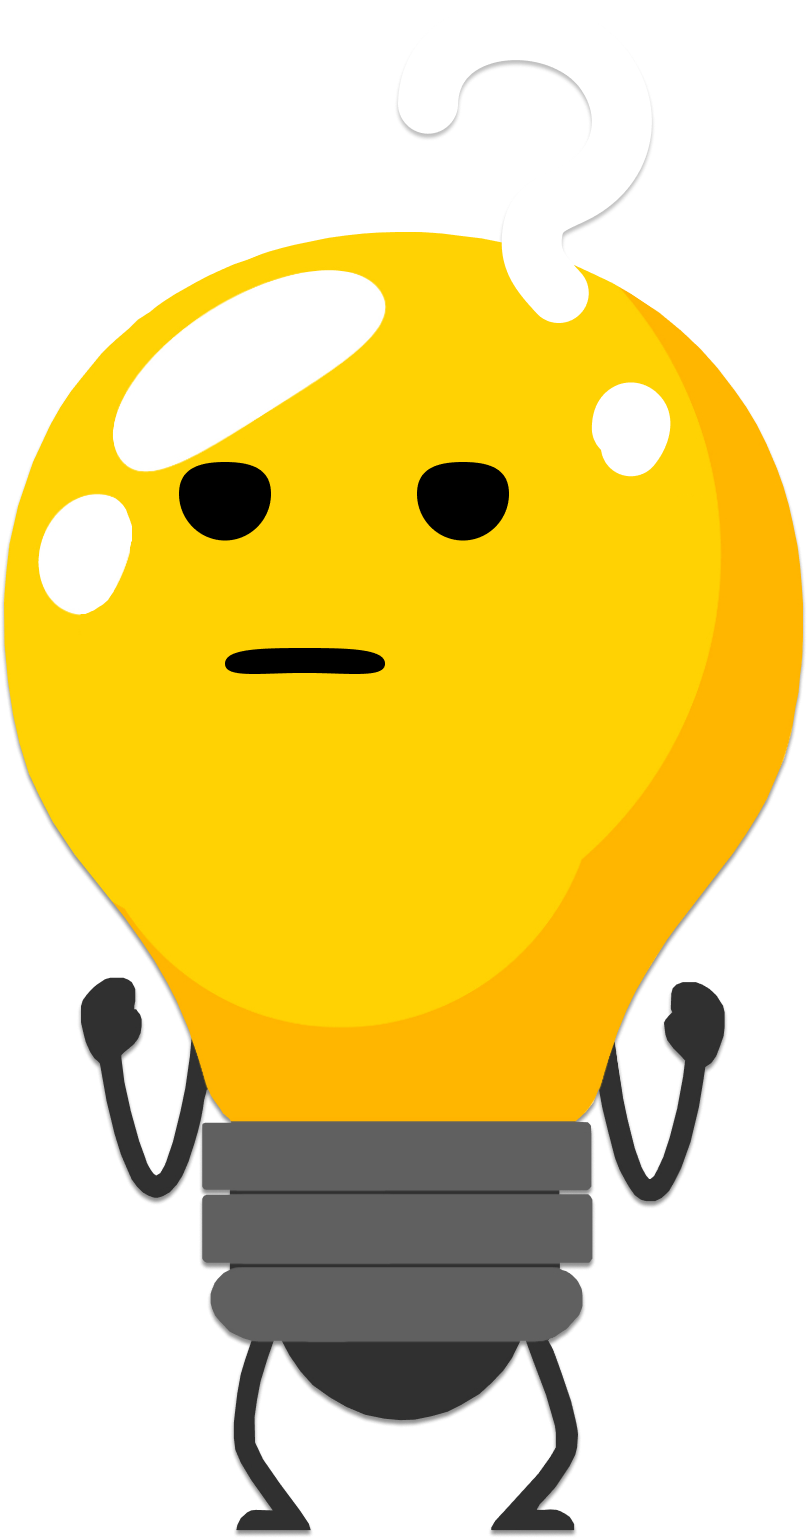
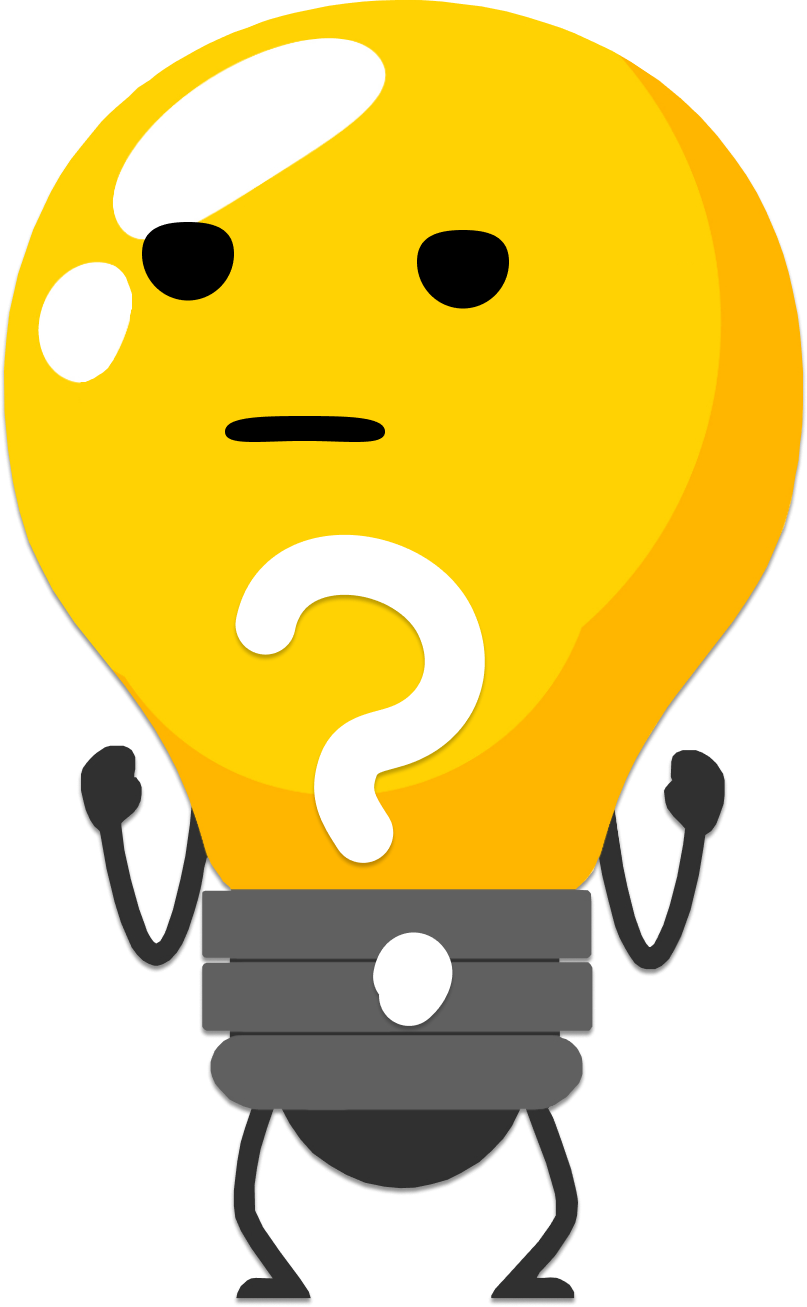
added expressions changing to all pages, revamped colours etc.

diff --git a/src/main/java/nz/ac/auckland/se206/CanvasController.java b/src/main/java/nz/ac/auckland/se206/CanvasController.java
@@ -24,8 +24,8 @@ import javafx.scene.control.Button;
 import javafx.scene.control.Label;
 import javafx.scene.control.ListView;
 import javafx.scene.image.Image;
+import javafx.scene.image.ImageView;
 import javafx.scene.layout.Pane;
-import javafx.scene.layout.VBox;
 import javafx.scene.paint.Color;
 import javafx.stage.FileChooser;
 import javafx.stage.FileChooser.ExtensionFilter;
@@ -54,7 +54,7 @@ public class CanvasController {
   @FXML private Label timeLabel;
   @FXML private ListView<?> predictionsList;
   @FXML private Button clearButton;
-  @FXML private VBox gameOverComponents;
+  @FXML private Pane gameOverComponents;
   @FXML private Label gameOverLabel;
   @FXML private Button restartButton;
   @FXML private Button backButton;
@@ -62,6 +62,8 @@ public class CanvasController {
   @FXML private Button eraseButton;
   @FXML private Button paintButton;
   @FXML private Pane canvasPane;
+  @FXML private ImageView questionMark;
+  @FXML private ImageView lightbulb;
 
   private int userId = UserHomeController.id;
   private User user = User.getUser(userId);
@@ -139,6 +141,7 @@ public class CanvasController {
     readyButton.setVisible(false);
     canvas.setDisable(false);
     canvasPane.setVisible(true);
+    questionMark.setVisible(false);
   }
 
   /**
@@ -250,7 +253,7 @@ public class CanvasController {
           protected Void call() throws Exception {
             ObservableList predictions =
                 (ObservableList)
-                    DoodlePrediction.getPredictionsList(
+                    DoodlePrediction.getBasePredictionsList(
                         model.getPredictions(thisImage, 10)); // get top 10 predictions
 
             boolean isInTop =
@@ -265,12 +268,58 @@ public class CanvasController {
                   // puts the top 10 predictions in the list
                   predictionsList.setItems(predictions);
                   if (isInTop && secondsLeft != startingTime) {
+                    File file =
+                        new File(
+                            System.getProperty("user.dir")
+                                + "/src/main/resources/images/canvas_images/excitedBulb.png");
+                    Image image = new Image(file.toURI().toString());
+                    lightbulb.setImage(image);
                     // if the chosen topic is in the top 3, then the game ends (user wins!)
                     endGame(true);
                     this.cancel();
                   } else if (secondsLeft == 0) {
                     endGame(false);
                     this.cancel();
+                  } else {
+                    try {
+                      if (DoodlePrediction.getBasePredictionsList(
+                              model.getPredictions(thisImage, 10))
+                          .contains(randomWord)) {
+                        File file =
+                            new File(
+                                System.getProperty("user.dir")
+                                    + "/src/main/resources/images/canvas_images/clueBulb.png");
+                        Image image = new Image(file.toURI().toString());
+                        lightbulb.setImage(image);
+                      } else if (DoodlePrediction.getBasePredictionsList(
+                              model.getPredictions(thisImage, 20))
+                          .contains(randomWord)) {
+                        File file =
+                            new File(
+                                System.getProperty("user.dir")
+                                    + "/src/main/resources/images/canvas_images/confusedBulb.png");
+                        Image image = new Image(file.toURI().toString());
+                        lightbulb.setImage(image);
+                      } else if (DoodlePrediction.getBasePredictionsList(
+                              model.getPredictions(thisImage, 30))
+                          .contains(randomWord)) {
+                        File file =
+                            new File(
+                                System.getProperty("user.dir")
+                                    + "/src/main/resources/images/canvas_images/sadBulb.png");
+                        Image image = new Image(file.toURI().toString());
+                        lightbulb.setImage(image);
+                      } else {
+                        File file =
+                            new File(
+                                System.getProperty("user.dir")
+                                    + "/src/main/resources/images/canvas_images/angryBulb.png");
+                        Image image = new Image(file.toURI().toString());
+                        lightbulb.setImage(image);
+                      }
+                    } catch (TranslateException e) {
+                      e.printStackTrace();
+                    }
                   }
                 });
             return null;
@@ -313,7 +362,6 @@ public class CanvasController {
     setBrushType(Color.BLACK, false);
 
     model = new DoodlePrediction();
-    displayPrediction(); // puts top 10 guesses on the listview
 
     CategorySelector categorySelector = new CategorySelector();
     randomWord = categorySelector.getRandomCategory(user.getWordDifficulty()); // sets to easy mode

diff --git a/src/main/java/nz/ac/auckland/se206/DefinitionsController.java b/src/main/java/nz/ac/auckland/se206/DefinitionsController.java
@@ -66,6 +66,7 @@ public class DefinitionsController {
   @FXML private Button paintButton;
   @FXML private Pane canvasPane;
   @FXML private ImageView questionMark;
+  @FXML private ImageView lightbulb;
 
   private int userId = UserHomeController.id;
   private User user = User.getUser(userId);
@@ -145,6 +146,7 @@ public class DefinitionsController {
     backButton.setDisable(true); // disable back
     hintLabel.setVisible(true);
     hintLabel.setDisable(false);
+    questionMark.setVisible(false);
   }
 
   /**
@@ -265,30 +267,82 @@ public class DefinitionsController {
           protected Void call() throws Exception {
             ObservableList predictions =
                 (ObservableList)
-                    DoodlePrediction.getPredictionsList(
+                    DoodlePrediction.getBasePredictionsList(
                         model.getPredictions(thisImage, 10)); // get top 10 predictions
 
             boolean isInTop =
                 DoodlePrediction.getPredictionsList(
                         model.getPredictions(thisImage, predictionWinNumber))
                     .contains(randomWord); // get top predictions based
+
             Platform.runLater(
                 () -> {
                   updateHint();
+
+                  try {
+                    if (DoodlePrediction.getPredictionsList(
+                            model.getPredictions(thisImage, predictionWinNumber))
+                        .contains(randomWord)) {}
+
+                  } catch (TranslateException e) {
+                    e.printStackTrace();
+                  }
+
                   // puts the top 10 predictions in the list
                   predictionsList.setItems(predictions);
-                  if (predictions.size() == 0) {
-                    questionMark.setVisible(true);
-                  } else {
-                    questionMark.setVisible(false);
-                  }
                   if (isInTop && secondsLeft != startingTime) {
                     // if the chosen topic is in the top 3, then the game ends (user wins!)
+                    File file =
+                        new File(
+                            System.getProperty("user.dir")
+                                + "/src/main/resources/images/canvas_images/excitedBulb.png");
+                    Image image = new Image(file.toURI().toString());
+                    lightbulb.setImage(image);
                     endGame(true);
                     this.cancel();
                   } else if (secondsLeft == 0) {
                     endGame(false);
                     this.cancel();
+                  } else {
+                    try {
+                      if (DoodlePrediction.getBasePredictionsList(
+                              model.getPredictions(thisImage, 10))
+                          .contains(randomWord)) {
+                        File file =
+                            new File(
+                                System.getProperty("user.dir")
+                                    + "/src/main/resources/images/canvas_images/clueBulb.png");
+                        Image image = new Image(file.toURI().toString());
+                        lightbulb.setImage(image);
+                      } else if (DoodlePrediction.getBasePredictionsList(
+                              model.getPredictions(thisImage, 20))
+                          .contains(randomWord)) {
+                        File file =
+                            new File(
+                                System.getProperty("user.dir")
+                                    + "/src/main/resources/images/canvas_images/confusedBulb.png");
+                        Image image = new Image(file.toURI().toString());
+                        lightbulb.setImage(image);
+                      } else if (DoodlePrediction.getBasePredictionsList(
+                              model.getPredictions(thisImage, 30))
+                          .contains(randomWord)) {
+                        File file =
+                            new File(
+                                System.getProperty("user.dir")
+                                    + "/src/main/resources/images/canvas_images/sadBulb.png");
+                        Image image = new Image(file.toURI().toString());
+                        lightbulb.setImage(image);
+                      } else {
+                        File file =
+                            new File(
+                                System.getProperty("user.dir")
+                                    + "/src/main/resources/images/canvas_images/angryBulb.png");
+                        Image image = new Image(file.toURI().toString());
+                        lightbulb.setImage(image);
+                      }
+                    } catch (TranslateException e) {
+                      e.printStackTrace();
+                    }
                   }
                 });
             return null;
@@ -367,8 +421,6 @@ public class DefinitionsController {
     System.out.println(hintTimer);
     System.out.println(randomDefinition);
     timeLabel.setText(String.valueOf(secondsLeft));
-
-    questionMark.setVisible(false);
   }
 
   /** This method is called when the "Clear" button is pressed. */

diff --git a/src/main/java/nz/ac/auckland/se206/ZenModeController.java b/src/main/java/nz/ac/auckland/se206/ZenModeController.java
@@ -23,6 +23,7 @@ import javafx.scene.control.Button;
 import javafx.scene.control.Label;
 import javafx.scene.control.ListView;
 import javafx.scene.image.Image;
+import javafx.scene.image.ImageView;
 import javafx.scene.layout.Pane;
 import javafx.scene.paint.Color;
 import javafx.stage.FileChooser;
@@ -64,6 +65,8 @@ public class ZenModeController {
   @FXML private Button lightBluePaintButton;
   @FXML private Button purplePaintButton;
   @FXML private Button pinkPaintButton;
+  @FXML private ImageView questionMark;
+  @FXML private ImageView lightbulb;
 
   @FXML private Pane canvasPane;
   @FXML private Button readyButton;
@@ -141,6 +144,7 @@ public class ZenModeController {
 
     canvas.setDisable(false);
     canvasPane.setVisible(true);
+    questionMark.setVisible(false);
   }
 
   /**
@@ -221,7 +225,7 @@ public class ZenModeController {
           protected Void call() throws Exception {
             ObservableList predictions =
                 (ObservableList)
-                    DoodlePrediction.getPredictionsList(
+                    DoodlePrediction.getBasePredictionsList(
                         model.getPredictions(thisImage, 10)); // get top 10 predictions
 
             boolean isInTop =
@@ -236,12 +240,52 @@ public class ZenModeController {
                   // puts the top 10 predictions in the list
                   predictionsList.setItems(predictions);
                   if (isInTop && secondsLeft != startingTime) {
-                    // if the chosen topic is in the top 3, then the game ends (user wins!)
-                    // endGame(true);
-                    // this.cancel();
-                  } else if (secondsLeft == 0) {
-                    // endGame(false);
-                    this.cancel();
+                    File file =
+                        new File(
+                            System.getProperty("user.dir")
+                                + "/src/main/resources/images/canvas_images/excitedBulb.png");
+                    Image image = new Image(file.toURI().toString());
+                    lightbulb.setImage(image);
+                  } else {
+                    try {
+                      if (DoodlePrediction.getBasePredictionsList(
+                              model.getPredictions(thisImage, 10))
+                          .contains(randomWord)) {
+                        File file =
+                            new File(
+                                System.getProperty("user.dir")
+                                    + "/src/main/resources/images/canvas_images/clueBulb.png");
+                        Image image = new Image(file.toURI().toString());
+                        lightbulb.setImage(image);
+                      } else if (DoodlePrediction.getBasePredictionsList(
+                              model.getPredictions(thisImage, 20))
+                          .contains(randomWord)) {
+                        File file =
+                            new File(
+                                System.getProperty("user.dir")
+                                    + "/src/main/resources/images/canvas_images/confusedBulb.png");
+                        Image image = new Image(file.toURI().toString());
+                        lightbulb.setImage(image);
+                      } else if (DoodlePrediction.getBasePredictionsList(
+                              model.getPredictions(thisImage, 30))
+                          .contains(randomWord)) {
+                        File file =
+                            new File(
+                                System.getProperty("user.dir")
+                                    + "/src/main/resources/images/canvas_images/sadBulb.png");
+                        Image image = new Image(file.toURI().toString());
+                        lightbulb.setImage(image);
+                      } else {
+                        File file =
+                            new File(
+                                System.getProperty("user.dir")
+                                    + "/src/main/resources/images/canvas_images/angryBulb.png");
+                        Image image = new Image(file.toURI().toString());
+                        lightbulb.setImage(image);
+                      }
+                    } catch (TranslateException e) {
+                      e.printStackTrace();
+                    }
                   }
                 });
             return null;

diff --git a/src/main/java/nz/ac/auckland/se206/ml/DoodlePrediction.java b/src/main/java/nz/ac/auckland/se206/ml/DoodlePrediction.java
@@ -98,6 +98,16 @@ public class DoodlePrediction {
     return predictionsList;
   }
 
+  public static List<String> getBasePredictionsList(
+      final List<Classifications.Classification> predictions) {
+    ObservableList<String> predictionsList = FXCollections.observableArrayList();
+    for (final Classifications.Classification classification : predictions) {
+      predictionsList.add(classification.getClassName().replaceAll("_", " "));
+    }
+
+    return predictionsList;
+  }
+
   private final ZooModel<Image, Classifications> model;
 
   /**

diff --git a/src/main/java/nz/ac/auckland/se206/UserHomeController.java b/src/main/java/nz/ac/auckland/se206/UserHomeController.java
@@ -284,7 +284,7 @@ public class UserHomeController {
       // change scene from user home page to definition game //currently set to normal
       // game as
       // filler
-      currentScene.setRoot(App.loadFxml("canvas"));
+      currentScene.setRoot(App.loadFxml("definitions"));
       Window window = currentScene.getWindow();
       window.setWidth(810); // set window width to 810
     } catch (IOException e) {
